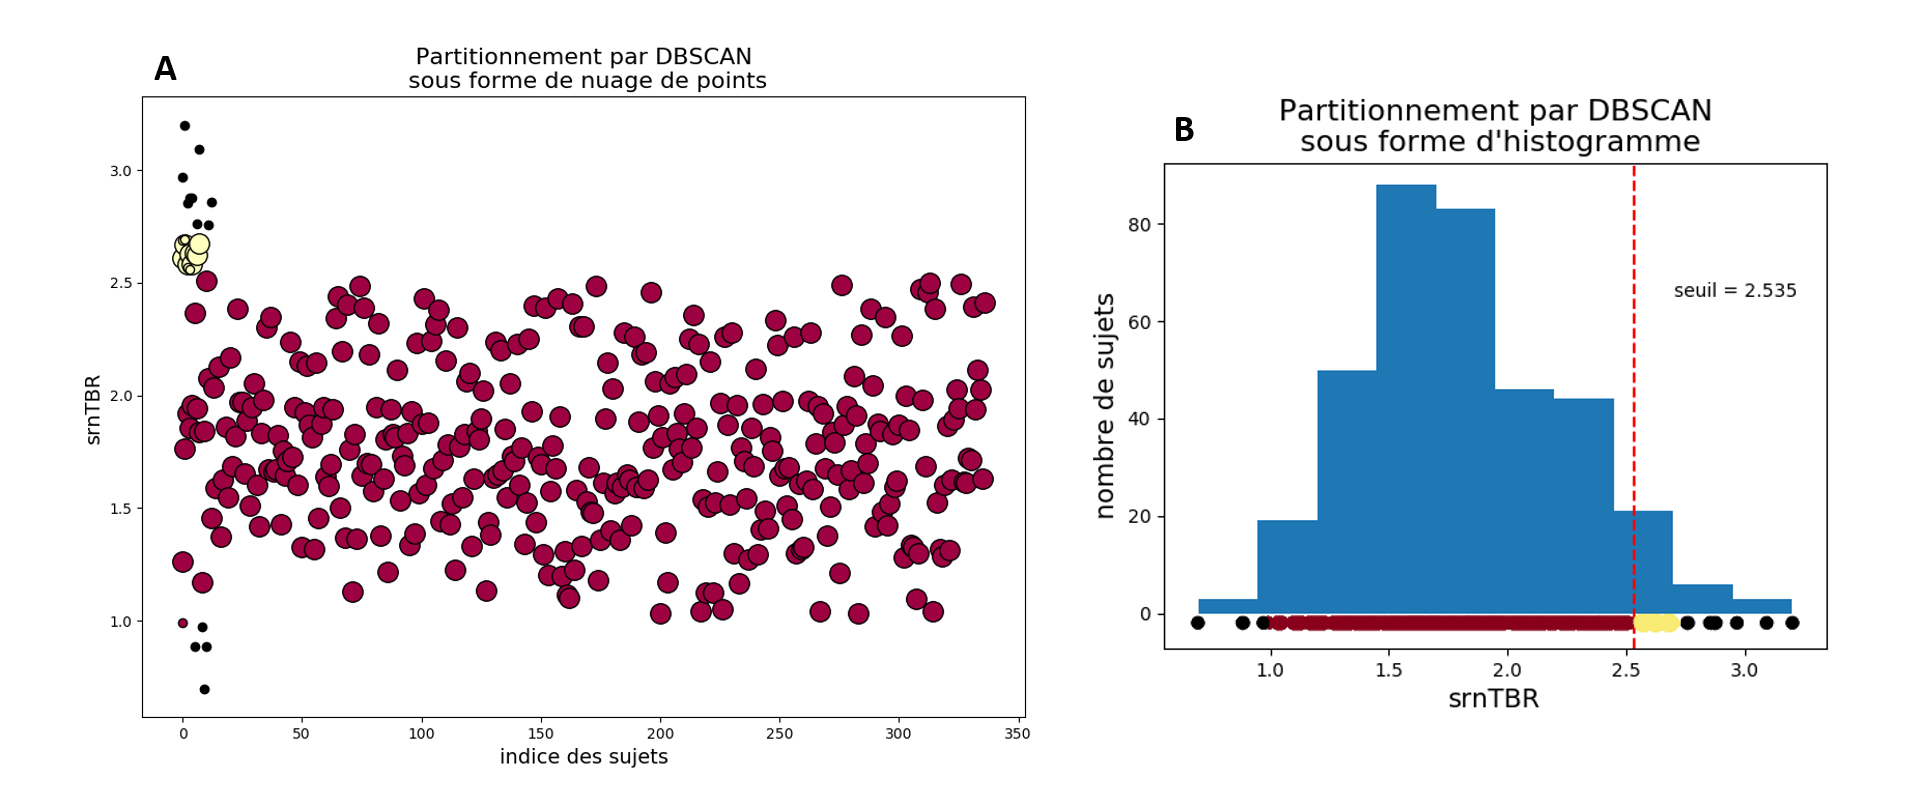
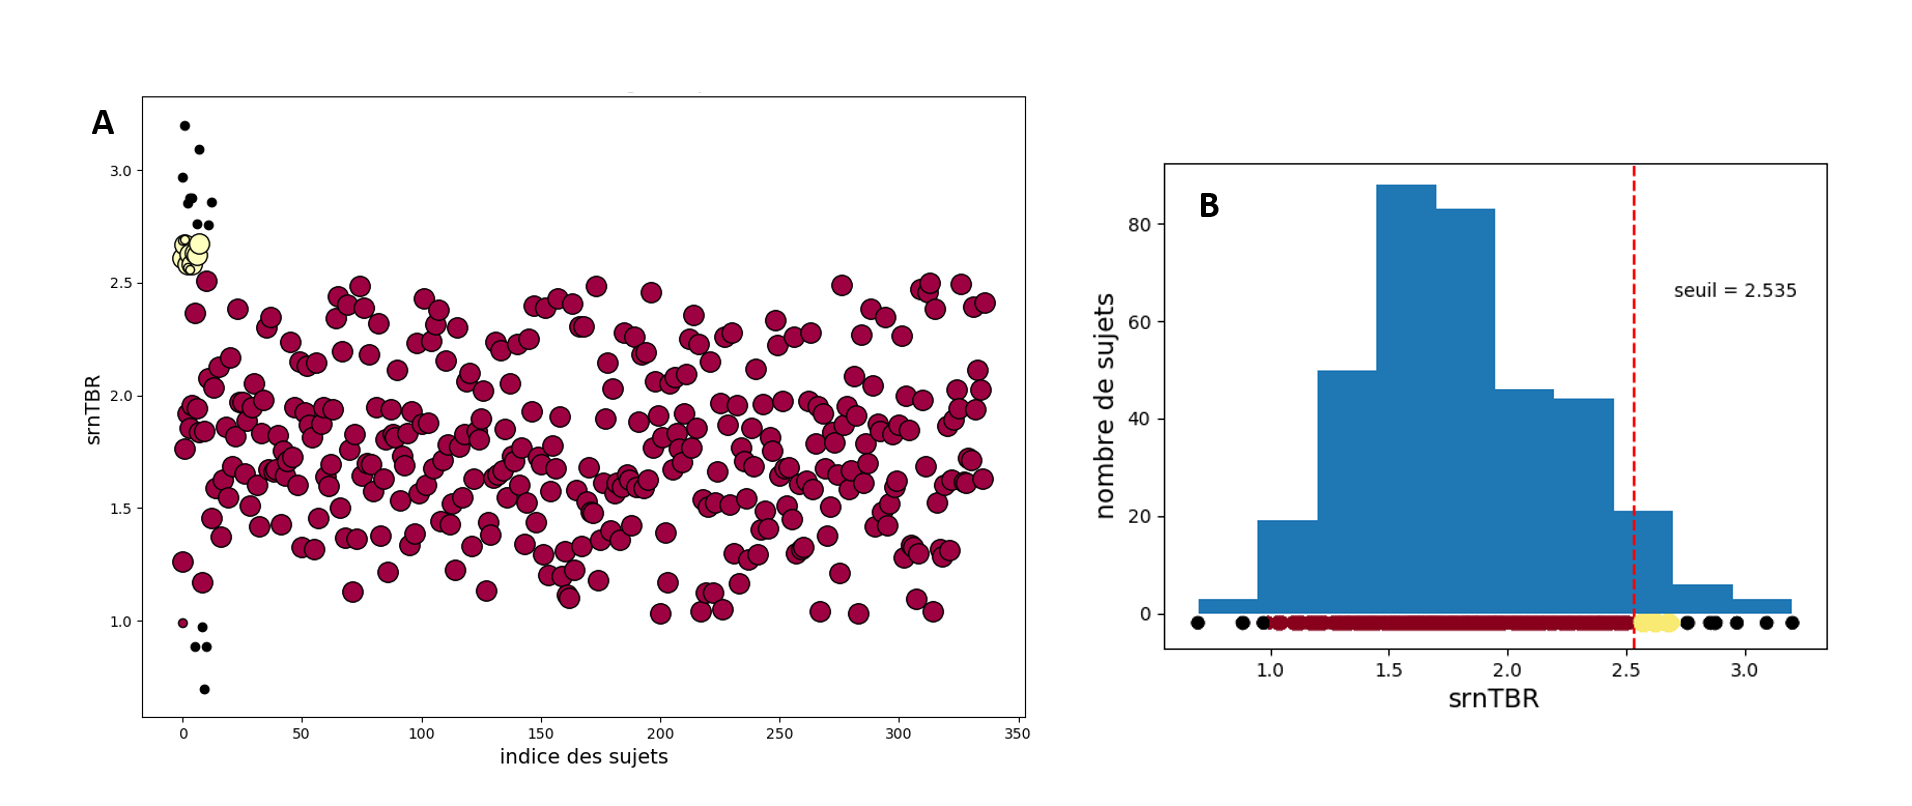
remove figure titles

diff --git a/chapter_4.tex b/chapter_4.tex
@@ -158,14 +158,15 @@ diagnostic \citep{Zhang2017, Arns2013, Clarke2001}. A la place, ces études trou
 résultat pourrait être utilisé pour identifier de meilleurs répondeurs à une intervention donnée. 
 
 La diminution du \gls{tbr} fait partie des protocoles le plus couramment utilisé en \gls{nfb} appliqué aux enfants \gls{tdah} \citep{Arns2014}. 
-On peut soutenir que l'efficacité de ce traitement pourrait être augmentée en affectant chaque patient à l'entraînement qui correspond le mieux à son phénotype \gls{eeg}. 
-Par exemple, les sujets présentant un haut \gls{tbr} suivraient un protocole de \gls{nfb} où il est demandé de diminuer le \gls{tbr}. Cette répartition a été proposée lors 
-de l'essai clinique NEWROFEED, pour lequel un seuil de répartition a dû être choisi. Un essai clinique randomisé et en double aveugle proposé par \citet{Kerson2013} 
-prévoyait d'utiliser un seuil \gls{tbr} de 5 mais cette valeur a été modifiée et fixée à 4.5 (NCT02251743, Arnold, Ohio State University, ClinicalTrials.gov), valeur également
+On peut supposer que l'efficacité de ce traitement pourrait être augmentée en affectant chaque patient à l'entraînement qui correspond le mieux à son phénotype \gls{eeg}. 
+Par exemple, il serait peut-être plus pertinent que les sujets présentant un haut \gls{tbr} suivent un protocole de \gls{nfb} où il est demandé de 
+diminuer le \gls{tbr}. Cette répartition a été proposée lors de l'essai clinique NEWROFEED, pour lequel un seuil de répartition a dû être choisi. 
+Un essai clinique randomisé et en double aveugle proposé par \citet{Kerson2013} prévoyait d'utiliser un seuil \gls{tbr} de 5 mais cette valeur a 
+été modifiée et fixée à 4.5 (NCT02251743, Arnold, Ohio State University, ClinicalTrials.gov), valeur également
 utilisée dans NEWROFEED. Choisir correctement la valeur de seuil est crucial car cette valeur détermine quel protocole de \gls{nfb} le patient va suivre. 
 
 Le caractère arbitraire des valeurs de seuil basées sur le \gls{tbr} appelle à une validation précise de l'existence d'un 
-sous-groupe de patients \gls{tdah} présentant un \gls{tbr} élevé et du le seuil à partir duquel les valeurs de \gls{tbr} sont considérées comme élevées.  
+sous-groupe de patients \gls{tdah} présentant un \gls{tbr} élevé et du seuil à partir duquel les valeurs de \gls{tbr} sont considérées comme élevées.  
  
 \subsection{Extraction du Theta-Beta ratio}
 L'extraction du \gls{tbr} des \gls{eeg} pré-traités après \ref{pré-traitement TBR} comprend plusieurs étapes :
@@ -226,7 +227,7 @@ de l'enregistrement. Le maximum sur ces deux électrodes est retenu, il sera enf
 
 Afin de déterminer s'il existe un groupe d'enfants \gls{tdah} présentant un \gls{tbr} élevé, trois méthodes de partitionnement (\textit{clustering} en anglais) 
 sont mises en place : une qui se base sur les distributions (\gls{bgmm}), une sur les distances (la méthode de Ward) et une autre sur 
-les densités (\gls{dbscan}). Les analyses statistiques sont effectuées avec la bibliothèque Python Scikit Learn (V0.18.1, \citet{Pedregosa2011}).
+les densités (\gls{dbscan}). Les analyses statistiques sont effectuées avec la bibliothèque Python Scikit Learn (v0.18.1, \citet{Pedregosa2011}).
 
 \subsubsection{Partitionnement basé sur les distributions : Bayesian Gaussian Mixture Model} 
 Un \textit{mixture model} est un modèle probabiliste qui permet d'identifier la présence de sous-populations dans une population.
@@ -402,7 +403,8 @@ indique un partionnement convenable mais dont les groupes sont proches l'un de l
   \centering
 	\includegraphics[width=1.0\linewidth]{figures/chapter-4/tbr-dbscan-clustering-plot} 
   \caption{Partitionnement obtenu par \gls{dbscan}. Deux groupes sont identifiés (en jaune et rouge) et 13 points sont considérés comme du bruit (en noir).
-	En \textbf{B)} le seuil \gls{srntbr} est représenté par la droite verticale en pointillés rouges.}
+	En \textbf{A)} le partitionnement est représenté par un nuage de points et en \textbf{B)} sous forme d'histogramme. Le seuil \gls{srntbr} est représenté par 
+	la droite verticale en pointillés rouges en \textbf{B)}.}
   \label{Figure:tbr_dbscan_clustering_plot}
 \end{figure}
 
@@ -509,7 +511,7 @@ Ce pourcentage est en accord avec les précédentes études qui concluent qu'ent
 De plus,\citep{Clarke2011} trouve que 35\% des patients \gls{tdah} ont un \gls{tbr} élevé. 
 Les seuils identifiés par les méthodes utilisées ici permettent de former un groupe d'enfants \gls{tdah} présentant un \gls{tbr} élevé comprenant entre
 25 et 40\% de la population totale, sauf dans le cas du \gls{dbscan} qui identifie un \textit{cluster}
-de \gls{tbr} élevés comprenant seulement 5.79\% de la population. Ce faible pourcentage ainsi que la faible \gls{acc} obtenue laisse à penser
+de \gls{tbr} élevés comprenant seulement 5.79\% de la population. Ce faile pourcentage ainsi que la basse \gls{acc} obtenue laisse à penser
 que la valeur de ce seuil ne sépare pas de manière fiable les deux groupes. Le seuil identifié par la méthode de Ward dans le cas de deux \textit{clusters}
 est proche de celui trouvé par le \gls{bgmm} à deux composantes (4 contre 3.7), ce qui prouve une nouvelle fois qu'il existe un groupe d'enfants \gls{tdah}
 présentant un \gls{tbr} élevé.
@@ -583,7 +585,7 @@ Par conséquent la correction des artefacts oculares ne semble pas influencer le
 
 Une autre source d'inexactitude pourrait être l'âge des sujets inclus dans l'analyse. En effet, la littérature a montré que les valeurs de \gls{tbr} varient
 avec l'âge des enfants \citep{Liechti2013, Snyder2015, Perone2018}. De plus, le U-test de Mann-Whitney a été appliqué à nos données \gls{tbr} et a montré
-qu'il existe une différence significative entre le groupe de \gls{tbr} faibles et de \gls{tbr} élevés définis avec le seuil de 3.7 du \gls{bgmm} à deux composantes
+qu'il existe une différence significative entre le groupe de \gls{tbr} plus faibles et de \gls{tbr} élevés définis avec le seuil de 3.7 du \gls{bgmm} à deux composantes
 (p-value = 2.30e-15, U = 22 104, avec les âges médians $\pm$ l'ecart absolu médian de chaque groupe : 8.0$\pm$1.57 et 10.1$\pm$2.43). Par ailleurs, lorsqu'on trace
 la distribution des âges dans chaque groupe représentée à la Figure~\ref{Figure:tbr_age_distribution}, on observe que plus les sujets sont âgés, plus leur 
 \gls{tbr} semble faible.
@@ -591,7 +593,8 @@ la distribution des âges dans chaque groupe représentée à la Figure~\ref{Fig
 \begin{figure}[h!]
   \centering
 	\includegraphics[width=0.5\linewidth]{figures/chapter-4/tbr-age-distribution} 
-  \caption{Comparaison des distributions normalisées des âges dans les groupes de \gls{tbr} identifiés par le \gls{bgmm} à deux composantes.}
+  \caption{Comparaison des distributions normalisées des âges dans les groupes de \gls{tbr} identifiés par le \gls{bgmm} à deux composantes. La distribution
+	en rouge correspond aux sujets inclus dans le groupe des valeurs de \gls{tbr} normales et celle en jaune au groupe dont les valeurs sont élevées.}
   \label{Figure:tbr_age_distribution}
 \end{figure}
 
@@ -608,9 +611,14 @@ Etant donné que les variations de \gls{tbr} sont censées augmenter avec l'âge
 
 Cette étude avait pour but d'explorer l'existence d'un groupe d'enfants \gls{tdah} basée sur leur \gls{tbr} extraits de signaux \gls{eeg} enregistrés les yeux 
 ouverts. Les résultats montrent qu'il existerait deux groupes : un avec un \gls{tbr} élevé, et l'autre avec des valeurs de \gls{tbr} normales. Bien que les 
-distributions de ces deux \textit{clusters} se superposent, le seuil de séparation le plus précis est de 3.7. La confirmation de l'existence de deux groupes
-distincts est importante pour l'utilisation du \gls{nfb} pour traiter le \gls{tdah}. En effet, cela indique qu'un traitement par \gls{nfb} proposant deux protocoles
-en fonction du \gls{tbr} pourrait être plus efficace que le même protocole de \gls{nfb} appliqué à tout le monde. A partir des résultats de cette étude, un seuil 
-\gls{tbr} de 4.1 est recommandé pour assigner les protocoles de \gls{nfb}.
+distributions de ces deux \textit{clusters} se superposent, le seuil de séparation le plus précis est de 3.7. Toutefois, le seuil qui équilibre le mieux
+le \gls{tpr} et le \gls{fpr} est celui de 4.1, il est donc recommandé pour assigner les protocoles de \gls{nfb}. 
 
-% ici l'efficacité du protocole TBR n'est pas étudiée, seule la faisabilité d'une personnalisation est analysée.
+La confirmation de l'existence de deux groupes distincts est importante pour l'utilisation du \gls{nfb} pour traiter le \gls{tdah}. En effet, cela indique 
+qu'un traitement par \gls{nfb} proposant deux protocoles en fonction du \gls{tbr} serait pertinent et pourrait être plus efficace que le même protocole 
+de \gls{nfb} appliqué à tout le monde. Toutefois cette étude n'avait pas pour but de démontrer l'efficacité du protocole de diminution de \gls{tbr} chez les 
+enfants \gls{tdah} présentant un \gls{tbr} élevé. Alors que certaines études notent une amélioration des symptômes à l'issue d'un protocole \gls{tbr}, 
+d'autres obtiennent des résultats plus négatifs. Une pssible explication de ce manque d'efficacité reporté dans ces études serait que contrôler 
+un ratio de fréquence se revèle plus complexe que de moduler la puissance dans une simple bande de fréquence. 
+
+% retrouver de la biblio
